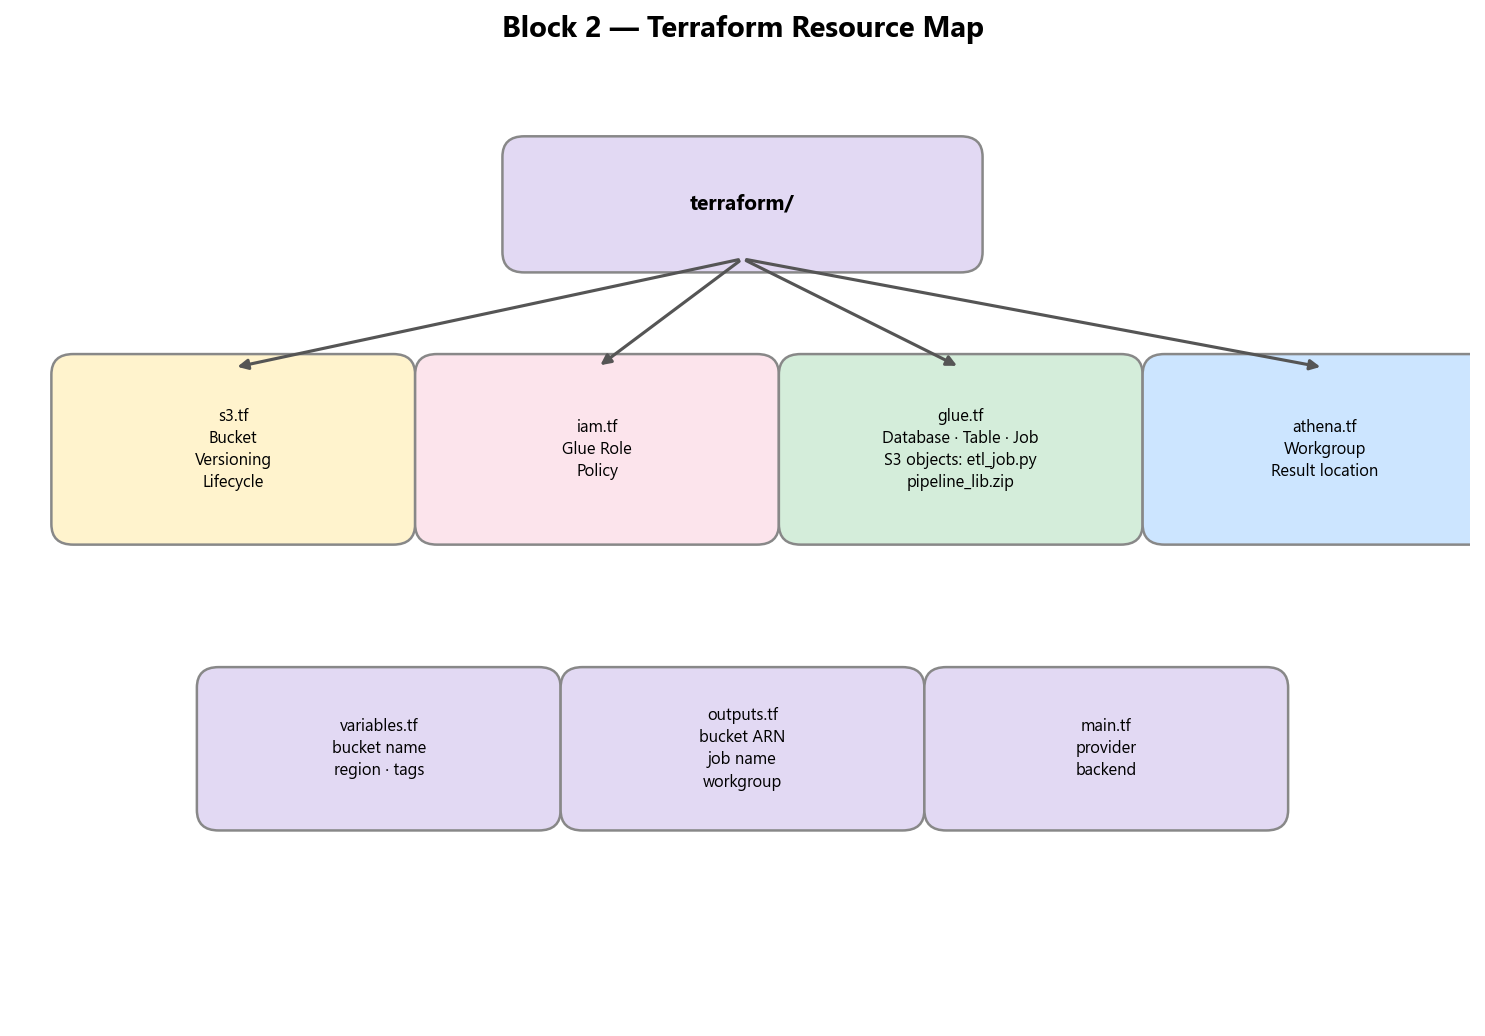
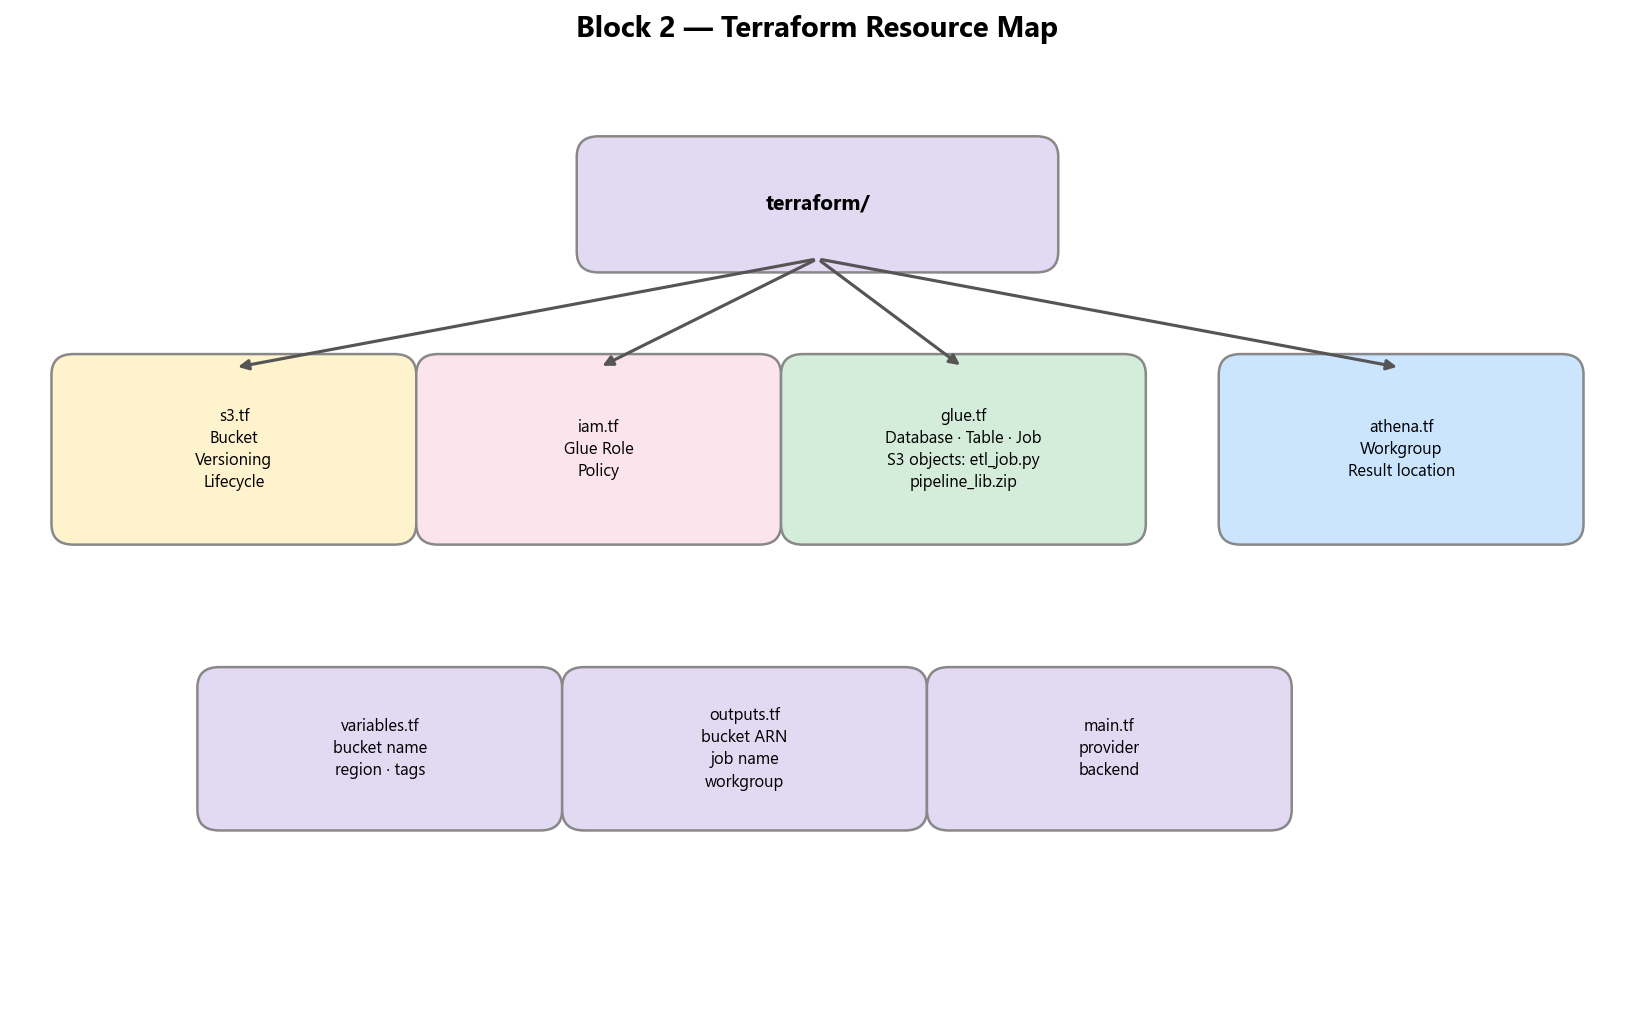
Fix IAM and athena.tf boxes in architecture and Terraform diagrams

diff --git a/docs/generate_diagrams.py b/docs/generate_diagrams.py
@@ -155,9 +155,9 @@ def draw_architecture():
     _dashed_arrow(ax, 8.0, 3.0, 5.0, 8.0)
 
     # IAM role
-    _box(ax, 7.5, 5.5, 2.5, 0.8,
+    _box(ax, 7.5, 5.5, 3.0, 1.0,
          "IAM Role\nGlue execution\nS3 + Catalog + Logs",
-         COLORS["iam"], fontsize=7)
+         COLORS["iam"], fontsize=8)
 
     _dashed_arrow(ax, 7.5, 6.0, 4.75, 7.6)
 
@@ -212,15 +212,15 @@ def draw_data_flow():
 # ── Diagram 3: Terraform Resources ──────────────────────────────────────────
 
 def draw_terraform():
-    fig, ax = plt.subplots(figsize=(10, 7))
-    ax.set_xlim(0, 10)
+    fig, ax = plt.subplots(figsize=(11, 7))
+    ax.set_xlim(0, 11)
     ax.set_ylim(0, 7)
     ax.axis("off")
     ax.set_title("Block 2 — Terraform Resource Map", fontsize=TITLE_SIZE,
                  fontfamily=FONT, fontweight="bold", pad=15)
 
     # Terraform root
-    _box(ax, 5.0, 6.0, 3.0, 0.7,
+    _box(ax, 5.5, 6.0, 3.0, 0.7,
          "terraform/", COLORS["terraform"], fontsize=10, bold=True)
 
     # Row 1: S3, IAM, Glue, Athena
@@ -228,11 +228,11 @@ def draw_terraform():
         (1.5, 4.2, "s3.tf\nBucket\nVersioning\nLifecycle", COLORS["s3"]),
         (4.0, 4.2, "iam.tf\nGlue Role\nPolicy", COLORS["iam"]),
         (6.5, 4.2, "glue.tf\nDatabase · Table · Job\nS3 objects: etl_job.py\npipeline_lib.zip", COLORS["glue"]),
-        (9.0, 4.2, "athena.tf\nWorkgroup\nResult location", COLORS["catalog"]),
+        (9.5, 4.2, "athena.tf\nWorkgroup\nResult location", COLORS["catalog"]),
     ]
     for mx, my, label, color in modules:
         _box(ax, mx, my, 2.2, 1.1, label, color, fontsize=8)
-        _arrow(ax, 5.0, 5.6, mx, 4.8)
+        _arrow(ax, 5.5, 5.6, mx, 4.8)
 
     # Row 2: Supporting files
     support = [